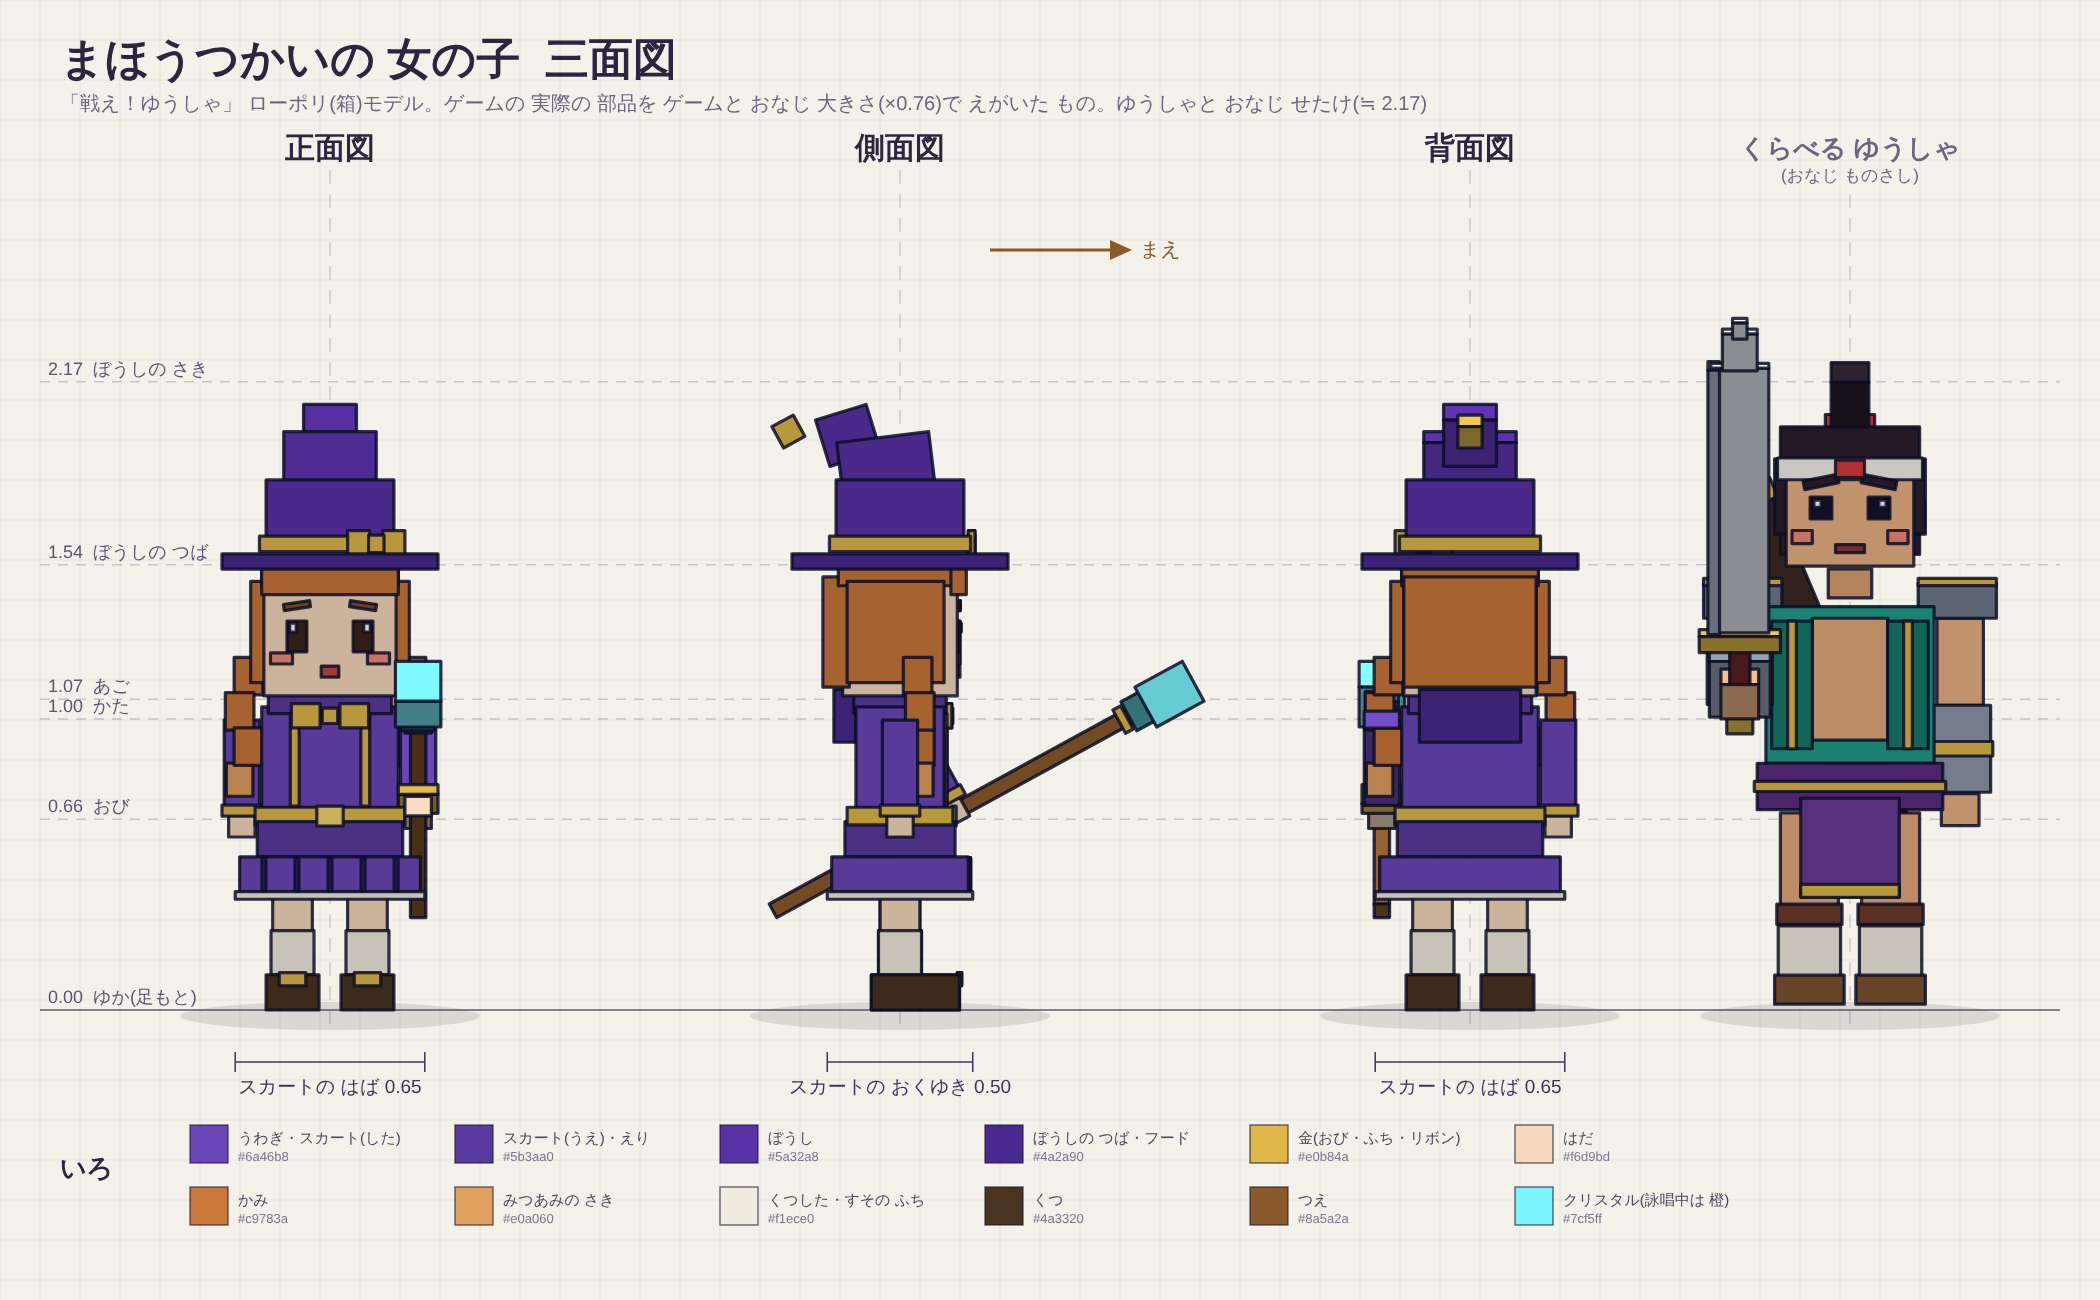
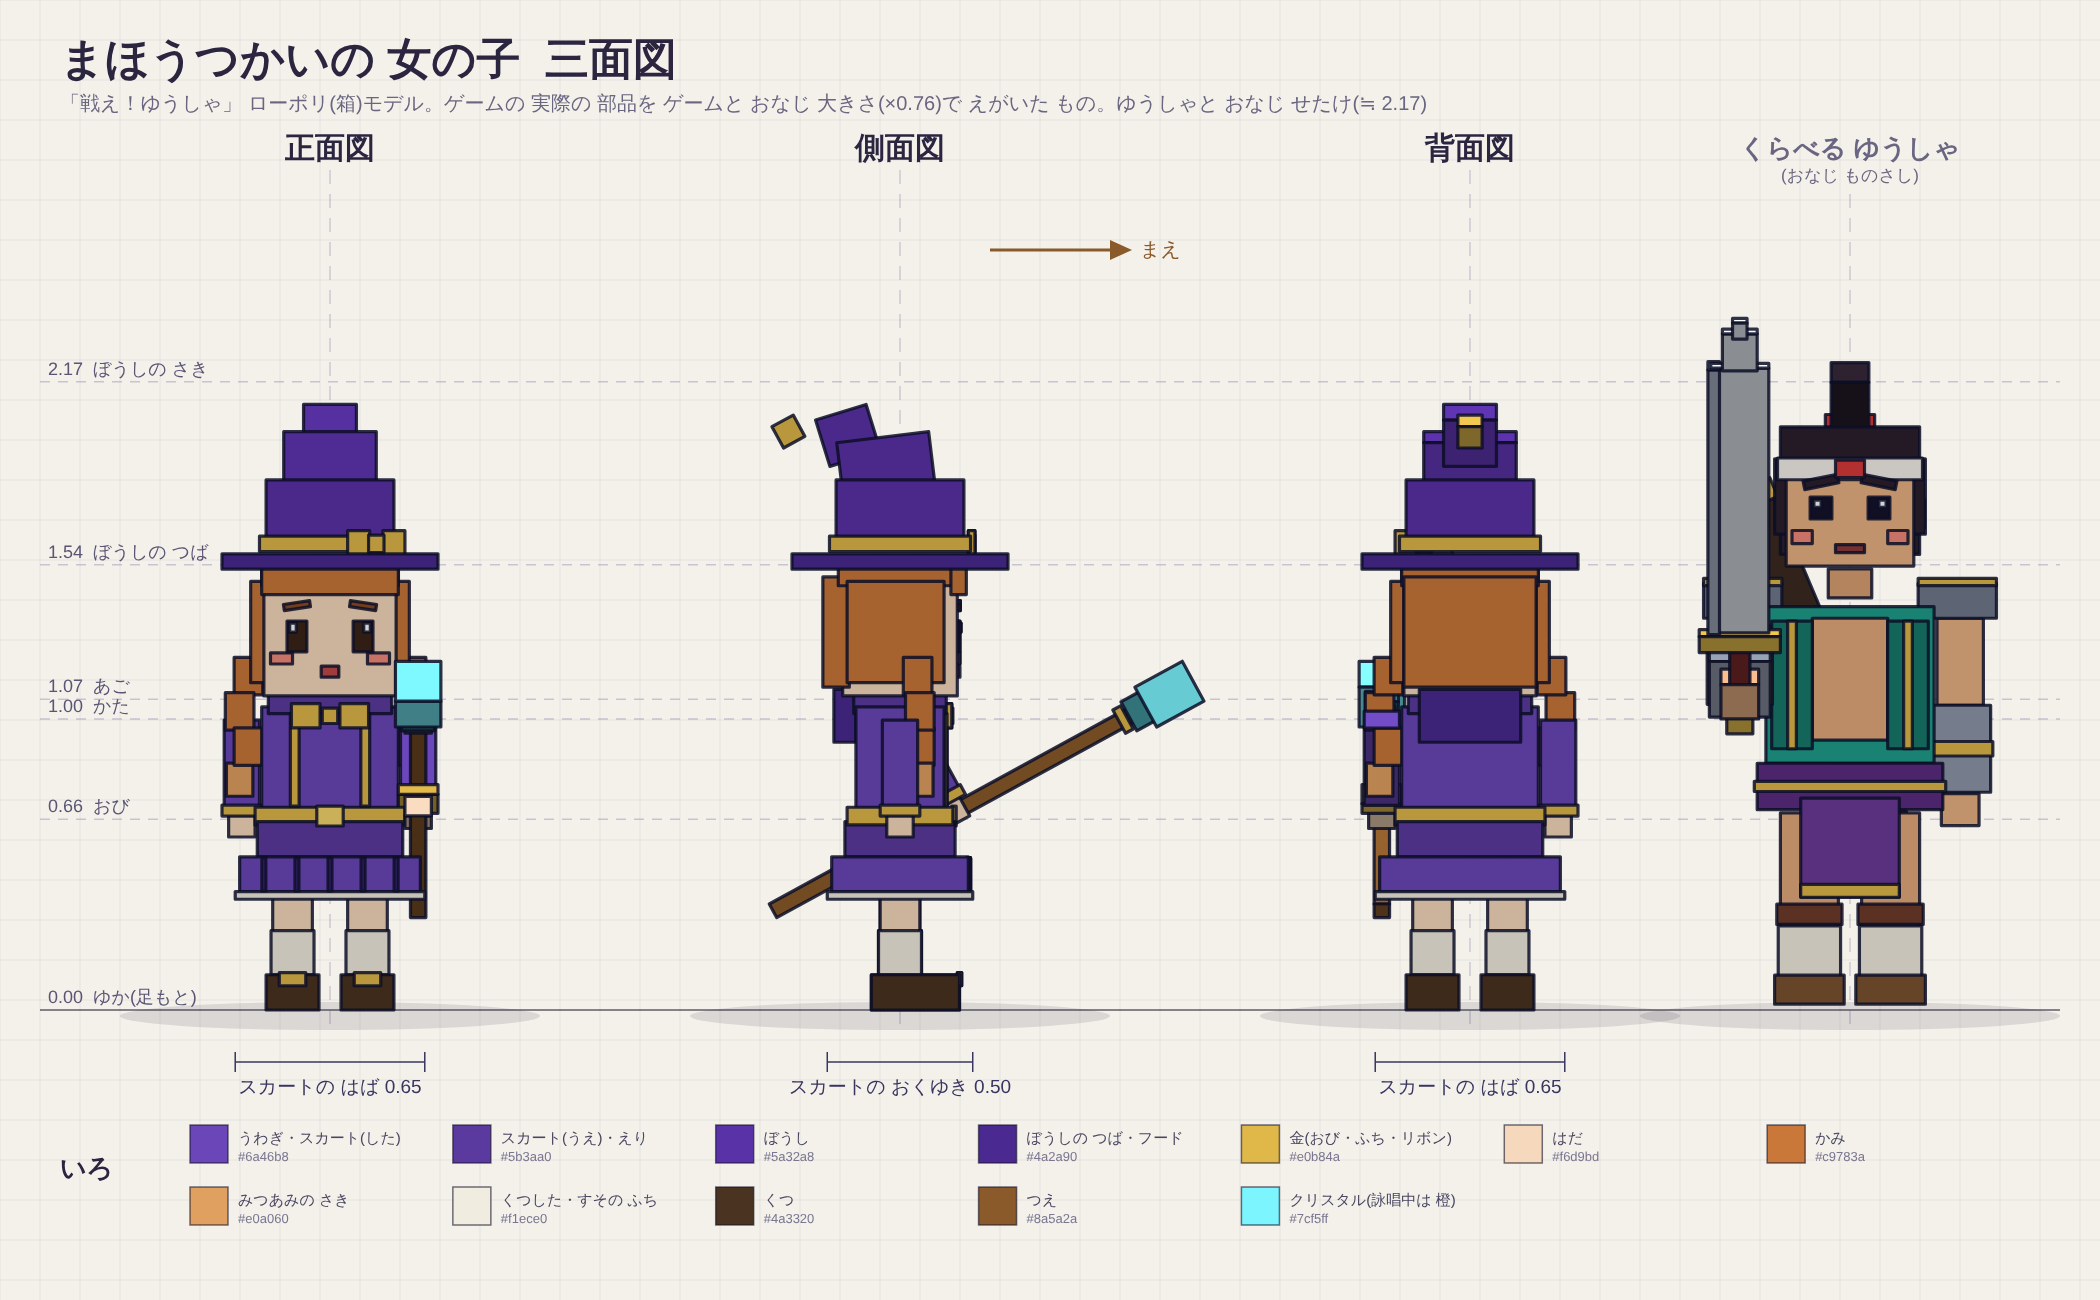
戦え！ゆうしゃ: 敵(どすこいオーガ)の三面図を足す。三面図スクリプトを まほうつかい/てき の どちらも出せるように
Claude-Session: https://claude.ai/code/session_01GZCPfjk6Nwrr2GzwhtpaEB

diff --git a/games/Tatakae-Yusha/tools/sansmen.js b/games/Tatakae-Yusha/tools/sansmen.js
@@ -1,71 +1,86 @@
-// まほうつかいの 三面図(正面・側面・背面)を、ゲームの 実際の モデル(src/render2d.js の allyParts)から えがいて PNG に する
+// キャラクターの 三面図(正面・側面・背面)を、ゲームの 実際の モデル(src/render2d.js の部品)から えがいて PNG に する
 //
 // つかいかた(games/Tatakae-Yusha で):
-//   node tools/sansmen.js                     … docs/mage-3view.png に 書きだす
-//   node tools/sansmen.js 出力の パス.png
-// モデルを かえたら もういちど 実行すれば 図も かわる。Three.js は つかわない(Canvas 2D の 箱モデルを まよこから えがく)。
+//   node tools/sansmen.js                 … まほうつかい → docs/mage-3view.png
+//   node tools/sansmen.js enemy           … てき(どすこいオーガ・ふつうの てき) → docs/enemy-3view.png
+//   node tools/sansmen.js mage 出力.png   … 出力の パスを 指定
+// モデルを かえたら もういちど 実行すれば 図も かわる。ゲームと おなじ 大きさで えがき、右はしに くらべる ゆうしゃを ならべる。
+// Three.js は つかわない(Canvas 2D の 箱モデルを まよこから えがく)。
 // この 作業環境のように CDN(cdn.jsdelivr.net)に つながらないときは、環境変数 THREE_DIR に node_modules/three を 指定する
 const {chromium}=require('playwright');const path=require('path'),http=require('http'),fs=require('fs');
-const ROOT=path.resolve(__dirname,'..'),T3=process.env.THREE_DIR||'',OUT=process.argv[2]||path.join(ROOT,'docs','mage-3view.png');
+const ROOT=path.resolve(__dirname,'..'),T3=process.env.THREE_DIR||'';
+const WHO=process.argv[2]==='enemy'?'enemy':'mage';
+const OUT=process.argv[3]||path.join(ROOT,'docs',WHO==='enemy'?'enemy-3view.png':'mage-3view.png');
 (async()=>{
- const srv=http.createServer((q,r)=>{const p=path.join(ROOT,decodeURIComponent(q.url.split('?')[0]));if(!fs.existsSync(p)||fs.statSync(p).isDirectory()){r.writeHead(404);r.end();return;}r.writeHead(200,{'Content-Type':p.endsWith('.js')?'text/javascript':'text/html; charset=utf-8'});fs.createReadStream(p).pipe(r);}).listen(0);
+ const srv=http.createServer((q,r)=>{const p=path.join(ROOT,decodeURIComponent(q.url.split('?')[0]));if(!p.startsWith(ROOT)||!fs.existsSync(p)||fs.statSync(p).isDirectory()){r.writeHead(404);r.end();return;}r.writeHead(200,{'Content-Type':p.endsWith('.js')?'text/javascript':'text/html; charset=utf-8'});fs.createReadStream(p).pipe(r);}).listen(0);
  await new Promise(r=>srv.on('listening',r));
  const b=await chromium.launch();const ctx=await b.newContext({viewport:{width:390,height:844}});
  if(T3)await ctx.route(/cdn\.jsdelivr\.net\/npm\/three@[^/]+\/(.*)$/,route=>{let f=route.request().url().match(/three@[^/]+\/(.*)$/)[1];f=f==='+esm'?'build/three.module.js':(f.includes('/')?f:'build/'+f);route.fulfill({path:path.join(T3,f),contentType:'text/javascript'});});
  await ctx.addInitScript(()=>{window.__T=1000;performance.now=()=>window.__T;window.requestAnimationFrame=()=>0;});
  const pg=await ctx.newPage();const errs=[];pg.on('pageerror',e=>errs.push(String(e)));
  await pg.goto('http://127.0.0.1:'+srv.address().port+'/index.html');await pg.waitForFunction(()=>window.__sumo);
- const url=await pg.evaluate(async()=>{
+ const url=await pg.evaluate(async(WHO)=>{
    const m=await import('/src/render2d.js');
-   const W=2100,H=1300,cv=document.createElement('canvas');cv.width=W;cv.height=H;const c=cv.getContext('2d');
    const FONT='"Hiragino Kaku Gothic ProN","Noto Sans JP","Yu Gothic",sans-serif';
-   // はいけい
+   const heroParts=m.heroParts({mv:0,ph:0,yaw3:0,firmK:0,pushK:0}).parts;
+   // ---- キャラごとの せってい ----
+   let CF;
+   if(WHO==='mage'){
+     const sc=m.MAGE_SCALE;
+     CF={title:'まほうつかいの 女の子  三面図',note:'「戦え！ゆうしゃ」 ローポリ(箱)モデル。ゲームの 実際の 部品を ゲームと おなじ 大きさ(×'+sc+')で えがいた もの。ゆうしゃと おなじ せたけ(≒ 2.17)',
+       parts:m.allyParts(Math.PI,0,0,0,'',0).parts,scale:sc,S:290,W:2100,cxs:[330,900,1470,1850],
+       guides:[[0,'ゆか(足もと)'],[0.865,'おび'],[1.32,'かた'],[1.41,'あご'],[2.02,'ぼうしの つば'],[2.85,'ぼうしの さき']],
+       dims:[[0,0.43,'スカートの はば 0.65'],[1,0.33,'スカートの おくゆき 0.50'],[2,0.43,'スカートの はば 0.65']],
+       sw:[['#6a46b8','うわぎ・スカート(した)'],['#5b3aa0','スカート(うえ)・えり'],['#5a32a8','ぼうし'],['#4a2a90','ぼうしの つば・フード'],['#e0b84a','金(おび・ふち・リボン)'],['#f6d9bd','はだ'],['#c9783a','かみ'],['#e0a060','みつあみの さき'],['#f1ece0','くつした・すその ふち'],['#4a3320','くつ'],['#8a5a2a','つえ'],['#7cf5ff','クリスタル(詠唱中は 橙)']]};
+   }else{
+     const tint='#8a8f9a',e0=m.enemyParts(null,tint,1.0,Math.PI,0,0,false,false,false);
+     const sc=e0.scale; // ゲームでの みかけの 倍率(ふつうの てき: 0.8 × ENEMY_LOOK)
+     const mix=(hex,f)=>'#'+[1,3,5].map(i=>Math.max(0,Math.min(255,Math.round(parseInt(hex.slice(i,i+2),16)*f))).toString(16).padStart(2,'0')).join('');
+     CF={title:'てき「どすこいオーガ」  三面図(ふつうの てき)',note:'「戦え！ゆうしゃ」 ローポリ(箱)モデル。ゲームの 実際の 部品を ゲームと おなじ 大きさ(×'+sc.toFixed(2)+')で えがいた もの。てきの おもさで 体の 大きさ・色が かわる(下の 色見本)',
+       parts:e0.parts,scale:sc,S:175,W:2750,cxs:[600,1250,1900,2480],
+       guides:[[0,'ゆか(足もと)'],[1.0,'まわし'],[2.0,'かた'],[2.4,'かおの ちゅうしん'],[3.24,'つのの さき']],
+       dims:[[0,0.95,'かたの はば(とげを のぞく) 1.9'],[1,0.55,'どうたいの おくゆき 1.1'],[2,0.95,'かたの はば 1.9']],
+       sw:[[tint,'はだ(ふつう)'],[mix(tint,1.22),'はだ(あかるい)'],[mix(tint,0.68),'はだ(くらい)・かみ'],['#7a2030','まわし'],['#8f2a40','まわしの まえだれ'],['#e0b84a','金(まわしの ふち)'],['#f0e6c8','つの'],['#cfd6e4','かたの とげ'],['#8d96a8','てくび(こて)'],['#f6f2e6','きば'],['#ffe36a','め(よこく中は あか・きいろ)'],['#a39a86','ふつう(2ひきめの いろ)'],['#7fb36b','かるい てき(みどり)'],['#8a5a45','おもい てき(ちゃいろ)']]};
+   }
+   const W=CF.W,H=1300,cv=document.createElement('canvas');cv.width=W;cv.height=H;const c=cv.getContext('2d');
    c.fillStyle='#f3f1ea';c.fillRect(0,0,W,H);
    c.strokeStyle='rgba(60,60,80,.07)';c.lineWidth=1;for(let x=0;x<W;x+=40){c.beginPath();c.moveTo(x,0);c.lineTo(x,H);c.stroke();}for(let y=0;y<H;y+=40){c.beginPath();c.moveTo(0,y);c.lineTo(W,y);c.stroke();}
-   c.fillStyle='#2b2540';c.font='bold 44px '+FONT;c.textBaseline='middle';c.fillText('まほうつかいの 女の子  三面図',60,62);
-   c.font='20px '+FONT;c.fillStyle='#6a6580';c.fillText('「戦え！ゆうしゃ」 ローポリ(箱)モデル。ゲームの 実際の 部品を ゲームと おなじ 大きさ(×0.76)で えがいた もの。ゆうしゃと おなじ せたけ(≒ 2.17)',60,104);
-   // 部品(アニメの ない ふだんの ポーズ)
-   const model=m.allyParts(Math.PI,0,0,0,'',0).parts,hero=m.heroParts({mv:0,ph:0,yaw3:0,firmK:0,pushK:0}).parts;
-   let top=0;for(const p of model){const hh=p.c[1]+p.s[1]/2+0.3;if(hh>top)top=hh;}
-   const S=290,baseY=1010,cxs=[330,900,1470,1850],views=[['正面図',0],['側面図',Math.PI/2],['背面図',Math.PI]];
+   c.fillStyle='#2b2540';c.font='bold 44px '+FONT;c.textBaseline='middle';c.textAlign='left';c.fillText(CF.title,60,62);
+   c.font='20px '+FONT;c.fillStyle='#6a6580';c.fillText(CF.note,60,104);
+   const S=CF.S,baseY=1010,MS=CF.scale,cxs=CF.cxs,views=[['正面図',0],['側面図',Math.PI/2],['背面図',Math.PI]];
    // たかさの ガイド
-   const MS=m.MAGE_SCALE,guides=[[0,'ゆか(足もと)'],[0.865*MS,'おび'],[1.32*MS,'かた'],[1.41*MS,'あご'],[2.02*MS,'ぼうしの つば'],[2.85*MS,'ぼうしの さき']];
    c.font='18px '+FONT;
-   for(const [hh,label] of guides){const y=baseY-hh*S;c.strokeStyle=hh===0?'rgba(40,36,60,.55)':'rgba(120,110,160,.35)';c.setLineDash(hh===0?[]:[10,8]);c.lineWidth=hh===0?2:1.5;c.beginPath();c.moveTo(40,y);c.lineTo(W-40,y);c.stroke();c.setLineDash([]);c.fillStyle='#5a5575';c.textAlign='left';c.fillText(hh.toFixed(2)+'  '+label,48,y-12);}
-   // 中心線と モデル
+   for(const [hh,label] of CF.guides){const y=baseY-hh*MS*S;c.strokeStyle=hh===0?'rgba(40,36,60,.55)':'rgba(120,110,160,.35)';c.setLineDash(hh===0?[]:[10,8]);c.lineWidth=hh===0?2:1.5;c.beginPath();c.moveTo(40,y);c.lineTo(W-40,y);c.stroke();c.setLineDash([]);c.fillStyle='#5a5575';c.textAlign='left';c.fillText((hh*MS).toFixed(2)+'  '+label,48,y-12);}
    m.useCtx(c);
-   for(const [name,yaw] of views){
-     const i=views.findIndex(v=>v[0]===name),x=cxs[i];
+   views.forEach(([name,yaw],i)=>{
+     const x=cxs[i];
      c.strokeStyle='rgba(120,110,160,.3)';c.setLineDash([14,10]);c.lineWidth=1.5;c.beginPath();c.moveTo(x,170);c.lineTo(x,baseY+20);c.stroke();c.setLineDash([]);
-     // ゆかの かげ
-     c.fillStyle='rgba(40,36,60,.12)';c.beginPath();c.ellipse(x,baseY+6,150,14,0,0,Math.PI*2);c.fill();
-     m.h3render(model,x,baseY,S*m.MAGE_SCALE,false,yaw,0,0,3.2); // ゲームの 見た目の 大きさ(まほうつかいは ×MAGE_SCALE)
+     c.fillStyle='rgba(40,36,60,.12)';c.beginPath();c.ellipse(x,baseY+6,150*S/290*1.4,14,0,0,Math.PI*2);c.fill();
+     m.h3render(CF.parts,x,baseY,S*MS,false,yaw,0,0,3.2);
      c.fillStyle='#2b2540';c.font='bold 30px '+FONT;c.textAlign='center';c.fillText(name,x,150);
-   }
-   // くらべるための ゆうしゃ(正面。おなじ ものさし)
+   });
+   // くらべる ゆうしゃ(正面。おなじ ものさし)
    {const x=cxs[3];c.strokeStyle='rgba(120,110,160,.3)';c.setLineDash([14,10]);c.lineWidth=1.5;c.beginPath();c.moveTo(x,170);c.lineTo(x,baseY+20);c.stroke();c.setLineDash([]);
-    c.fillStyle='rgba(40,36,60,.12)';c.beginPath();c.ellipse(x,baseY+6,150,14,0,0,Math.PI*2);c.fill();
-    m.h3render(hero,x,baseY,S,false,0,0,0,3.2);
+    c.fillStyle='rgba(40,36,60,.12)';c.beginPath();c.ellipse(x,baseY+6,150*S/290*1.4,14,0,0,Math.PI*2);c.fill();
+    m.h3render(heroParts,x,baseY,S,false,0,0,0,3.2);
     c.fillStyle='#6a6580';c.font='bold 26px '+FONT;c.textAlign='center';c.fillText('くらべる ゆうしゃ',x,150);c.font='17px '+FONT;c.fillText('(おなじ ものさし)',x,176);}
    m.useCtx(null);
    // まえ むきの やじるし(側面図)
    {const x=cxs[1],y=250;c.strokeStyle='#8a5a2a';c.fillStyle='#8a5a2a';c.lineWidth=3;c.beginPath();c.moveTo(x+90,y);c.lineTo(x+210,y);c.stroke();c.beginPath();c.moveTo(x+210,y-10);c.lineTo(x+232,y);c.lineTo(x+210,y+10);c.fill();
-    c.font='20px '+FONT;c.textAlign='left';c.fillStyle='#8a5a2a';c.fillText('まえ',x+240,y);}
-   // 寸法(はば・おくゆき)
+    c.font='20px '+FONT;c.textAlign='left';c.fillText('まえ',x+240,y);}
+   // 寸法
    const dim=(x1,x2,y,label)=>{c.strokeStyle='#3a3560';c.fillStyle='#3a3560';c.lineWidth=1.5;c.beginPath();c.moveTo(x1,y);c.lineTo(x2,y);c.stroke();for(const x of [x1,x2]){c.beginPath();c.moveTo(x,y-10);c.lineTo(x,y+10);c.stroke();}c.font='19px '+FONT;c.textAlign='center';c.fillText(label,(x1+x2)/2,y+26);};
-   dim(cxs[0]-0.43*S*m.MAGE_SCALE,cxs[0]+0.43*S*m.MAGE_SCALE,baseY+52,'スカートの はば 0.65');
-   dim(cxs[1]-0.33*S*m.MAGE_SCALE,cxs[1]+0.33*S*m.MAGE_SCALE,baseY+52,'スカートの おくゆき 0.50');
-   dim(cxs[2]-0.43*S*m.MAGE_SCALE,cxs[2]+0.43*S*m.MAGE_SCALE,baseY+52,'スカートの はば 0.65');
+   for(const [vi,half,label] of CF.dims)dim(cxs[vi]-half*S*MS,cxs[vi]+half*S*MS,baseY+52,label);
    c.textAlign='left';
    // いろ
-   const sw=[['#6a46b8','うわぎ・スカート(した)'],['#5b3aa0','スカート(うえ)・えり'],['#5a32a8','ぼうし'],['#4a2a90','ぼうしの つば・フード'],['#e0b84a','金(おび・ふち・リボン)'],['#f6d9bd','はだ'],['#c9783a','かみ'],['#e0a060','みつあみの さき'],['#f1ece0','くつした・すその ふち'],['#4a3320','くつ'],['#8a5a2a','つえ'],['#7cf5ff','クリスタル(詠唱中は 橙)']];
-   c.fillStyle='#2b2540';c.font='bold 26px '+FONT;c.textAlign='left';c.fillText('いろ',60,1170);
-   sw.forEach((q,i)=>{const col=i%6,row=Math.floor(i/6),x=190+col*265,y=1145+row*62;
+   c.fillStyle='#2b2540';c.font='bold 26px '+FONT;c.fillText('いろ',60,1170);
+   CF.sw.forEach((q,i)=>{const col=i%7,row=Math.floor(i/7),x=190+col*Math.min(265,(W-260)/7),y=1145+row*62;
      c.fillStyle=q[0];c.fillRect(x,y-20,38,38);c.strokeStyle='rgba(20,18,40,.6)';c.lineWidth=1.5;c.strokeRect(x,y-20,38,38);
      c.fillStyle='#4a4560';c.textAlign='left';c.font='15px '+FONT;c.fillText(q[1],x+48,y-6);c.font='13px '+FONT;c.fillStyle='#7a7590';c.fillText(q[0],x+48,y+12);});
    return cv.toDataURL('image/png');
- });
+ },WHO);
+ fs.mkdirSync(path.dirname(OUT),{recursive:true});
  fs.writeFileSync(OUT,Buffer.from(url.split(',')[1],'base64'));
- console.log('ok',errs);
+ console.log('ok',OUT,errs);
  await b.close();srv.close();
 })();

diff --git a/games/Tatakae-Yusha/CLAUDE.md b/games/Tatakae-Yusha/CLAUDE.md
@@ -23,7 +23,7 @@
 - 箱モデルの形・アニメは `render2d.js` の `heroParts` / `allyParts` / `enemyParts`（部品のリストを返す）を 2D と WebGL で共用する
 - Three.js は部品を作るときに `Math.random` を使うので、`withOwnRandom` で別の乱数に切りかえてから作る（ゲームの乱数の並びを変えないため）
 - アンチエイリアスは DPR 2 以上では切っている（スマホで重くなるため）
-- `tools/sansmen.js` … まほうつかいの**三面図**（正面・側面・背面。高さのガイド・寸法・色見本つき）を `docs/mage-3view.png` に書きだす。ゲームの実際のモデル（`allyParts`）を真横から（`h3render` の `pitch=0`）描くので、モデルを変えて再実行すれば図も変わる。glTF などの本番モデルを作るときの資料にする
+- `tools/sansmen.js` … キャラクターの**三面図**（正面・側面・背面。高さのガイド・寸法・色見本・くらべる勇者つき）を書きだす。`node tools/sansmen.js` でまほうつかい（`docs/mage-3view.png`）、`node tools/sansmen.js enemy` で敵のどすこいオーガ・ふつうの敵（`docs/enemy-3view.png`）。ゲームの実際のモデルをゲームと同じ大きさで真横から（`h3render` の `pitch=0`）描くので、モデルを変えて再実行すれば図も変わる。glTF などの本番モデルを作るときや、AI に絵を作りなおしてもらうときの資料にする
 - `tools/bot.js` … ボット（headless）。使い方は JS 冒頭。`node tools/bot.js --compare prototype-2d.html,index.html` で移行元と勝敗・時間・毎フレームの状態を比べる
 - この作業環境からは cdn.jsdelivr.net に接続できない。確認は `npm i three@0.186.1` をスクラッチに入れ、ボットは環境変数 `THREE_DIR` にその `node_modules/three` を指定する（Playwright で CDN への要求をそこへ回す）
 
